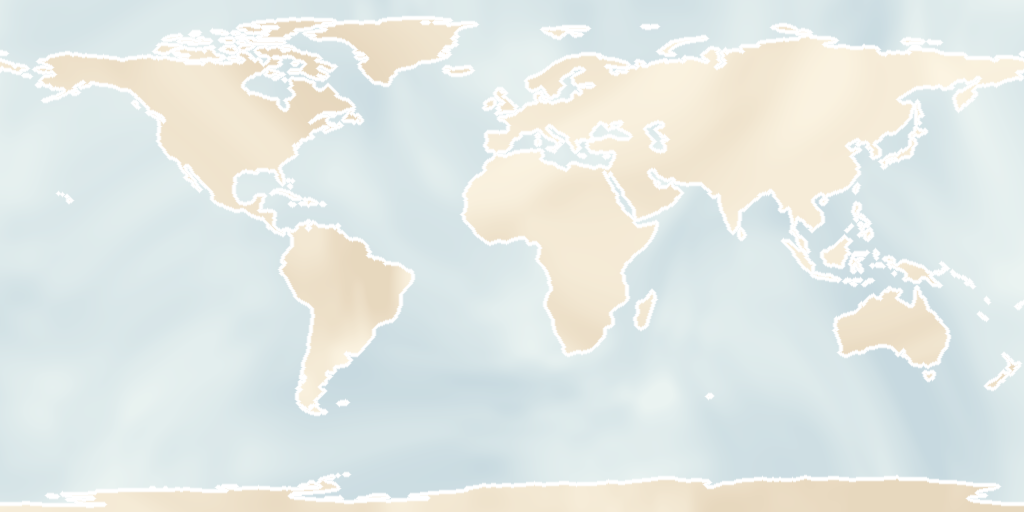
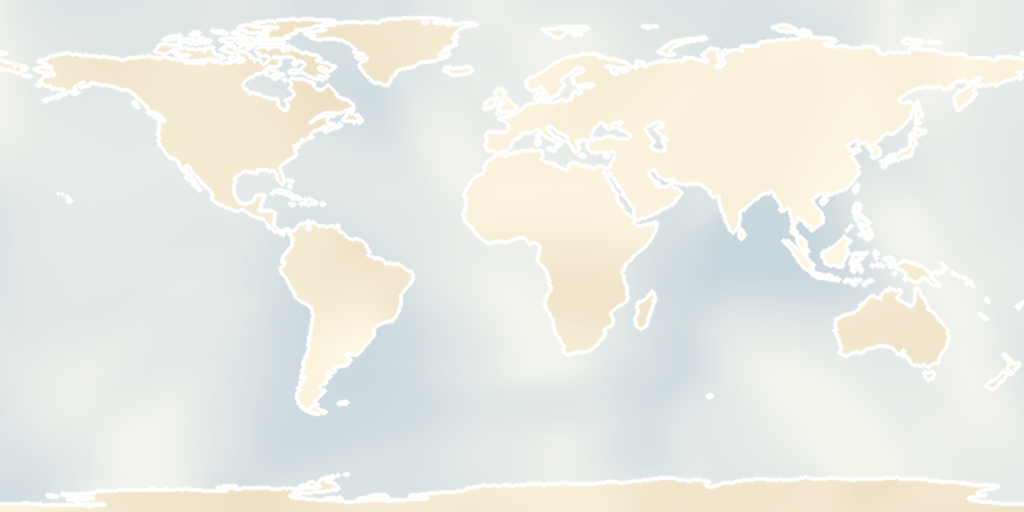
Publish blended cream and blue atlas with lighter parchment

diff --git a/style.css b/style.css
@@ -4,7 +4,7 @@
   --paper: #efe5d2; --paper-high: #f7f0e2; --paper-low: #e4d5b9; --paper-edge: #c4b08b; --mat: #faf5e9;
   --ink: #453b2d; --muted: #685c49; --line: #b7a688; --brass: #a28b62;
   --red: #9d4835; --red-dark: #823c2e; --route-red: #cb3824;
-  --ocean: #c4d8da; --land: #f2e4c8; --coast: #a08a66;
+  --ocean: #c4d3d5; --land: #f4e6c1; --coast: #a08a66;
   --dock: var(--paper); --chart: var(--paper); --sepia: var(--ink);
[1 lines of base64/hex data omitted]
   --paper-wash: radial-gradient(130% 120% at 30% 10%, var(--paper-high), var(--paper) 60%, var(--paper-low));
@@ -43,9 +43,10 @@ main { position: relative; width: 100%; height: 100%; }
 .atlas-frame::after { content: ''; position: absolute; inset: 4px; border: 1px solid #9f8d6b99; }
 @media (max-width: 600px) { .atlas-frame { inset: 6px; outline-width: 6px; box-shadow: inset 0 0 0 3px #f0e5cf; } .atlas-frame::after { inset: 3px; } }
 #atlas-tones { opacity: .9; }
-/* Shallow paper creases, with screen-sized strokes at every zoom. No filters. */
+/* Fine coordinates, with shallow folds only at 0° latitude and longitude. */
 #graticule { fill: none; pointer-events: none; }
-#graticule-lines { vector-effect: non-scaling-stroke; }
+#graticule path { vector-effect: non-scaling-stroke; }
+#graticule .graticule-line { stroke: #7d8071; stroke-width: .55; stroke-opacity: .13; }
 #graticule .crease-soft { stroke: #736a55; stroke-width: 3.4; stroke-opacity: .035; }
 #graticule .crease-edge { stroke: #736a55; stroke-width: 1.5; stroke-opacity: .11; }
 #graticule .crease-light { stroke: #fff8e7; stroke-width: .65; stroke-opacity: .38; }
@@ -81,7 +82,7 @@ main { position: relative; width: 100%; height: 100%; }
 body.sheet-open :is(.route-dock, .zoom-controls) { opacity: 0; translate: 0 18px; pointer-events: none; }
 
 /* A compact trip planner over the map. */
-.route-dock, .route-log { --chart: #f3e9d4; --paper: #f3e9d4; --paper-high: #f7f0e1; --paper-low: #ecdfc3; --line: #b59c74; --brass: #9c8057; --muted: #66543b; --red: #8b3f2e; --red-dark: #713024; --parchment: linear-gradient(105deg, #bb935116, #bb935100 9%, #fff7dd24 47%, #bb935100 86%, #bb935112), linear-gradient(165deg, #f7efdf, #f2e8d2 60%, #efe3ca); }
+.route-dock, .route-log { --chart: #f5ecda; --paper: #f5ecda; --paper-high: #faf5ea; --paper-low: #efe3cc; --line: #b59c74; --brass: #9c8057; --muted: #66543b; --red: #8b3f2e; --red-dark: #713024; --parchment: linear-gradient(105deg, #bfa77c12, #bfa77c00 9%, #fffaf01c 47%, #bfa77c00 86%, #bfa77c0f), linear-gradient(165deg, #faf4e8, #f5ecdc 60%, #f1e7d4); }
 .route-dock { position: absolute; z-index: 3; bottom: 22px; left: 50%; transform: translateX(-50%); width: min(700px, calc(100% - 40px)); padding: 14px 22px 12px;
   color: var(--sepia); border-radius: 3px; transition: opacity .3s ease, translate .4s var(--ease-out);
   background-color: var(--chart);

diff --git a/index.html b/index.html
@@ -6,7 +6,7 @@
   <meta name="theme-color" content="#efe5d2">
   <meta name="description" content="Plot your next adventure. A simple vintage travel map with an animated red line.">
   <title>Redline — A journey on the map</title>
-  <link rel="stylesheet" href="style.css?v=c1d0a558b2ae">
+  <link rel="stylesheet" href="style.css?v=8ffbe07a7f36">
   <link rel="stylesheet" href="gallery.css?v=5679034758b0">
   <script src="vendor/geo.js?v=78f7db3eec56" defer></script>
   <script src="map-layout.js?v=eb31b38a5551" defer></script>
@@ -29,12 +29,13 @@
       <svg id="map" viewBox="0 0 1440 720" preserveAspectRatio="none" aria-label="World map showing your travel route" role="img" tabindex="-1">
         <g id="land"></g>
         <g id="antarctica" aria-hidden="true"></g>
-        <image id="atlas-tones" href="atlas-tones.png?v=fb506dfe98c3" width="1440" height="720" preserveAspectRatio="none" pointer-events="none" aria-hidden="true"/>
+        <image id="atlas-tones" href="atlas-tones.png?v=00df948c015e" width="1440" height="720" preserveAspectRatio="none" pointer-events="none" aria-hidden="true"/>
         <g id="graticule" aria-hidden="true">
-          <defs><path id="graticule-lines" d="M120 0V720M240 0V720M360 0V720M480 0V720M600 0V720M720 0V720M840 0V720M960 0V720M1080 0V720M1200 0V720M1320 0V720M0 120H1440M0 240H1440M0 360H1440M0 480H1440M0 600H1440"/></defs>
-          <use href="#graticule-lines" class="crease-soft"/>
-          <use href="#graticule-lines" class="crease-edge"/>
-          <use href="#graticule-lines" class="crease-light"/>
+          <path class="graticule-line" d="M120 0V720M240 0V720M360 0V720M480 0V720M600 0V720M840 0V720M960 0V720M1080 0V720M1200 0V720M1320 0V720M0 120H1440M0 240H1440M0 480H1440M0 600H1440"/>
+          <defs><path id="graticule-folds" d="M720 0V720M0 360H1440"/></defs>
+          <use href="#graticule-folds" class="crease-soft"/>
+          <use href="#graticule-folds" class="crease-edge"/>
+          <use href="#graticule-folds" class="crease-light"/>
         </g>
         <g id="country-borders" aria-hidden="true"></g>
         <g id="regions" aria-hidden="true"></g>
